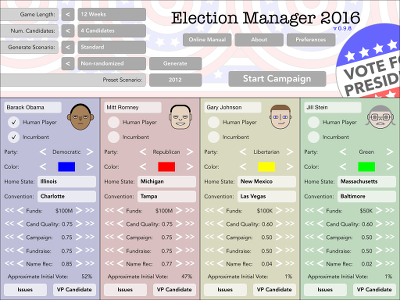
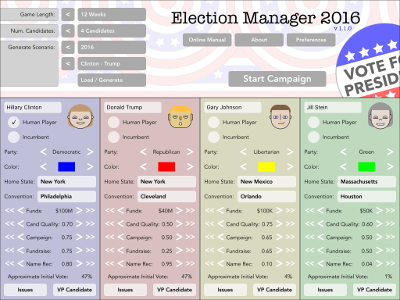
Updated manual, FAQ, etc. for v1.1.0 of EM16

diff --git a/html/em16/manual.html b/html/em16/manual.html
@@ -26,7 +26,7 @@
 <div class="section manual">
   <h1><span id="1"></span>Election Manager 2016 Online Manual</h1>
 <p>Welcome to the Election Manager 2016 online manual.  This version of the
-  manual is current for version 1.0.3 of Election Manager 2016.</p>
+  manual is current for version 1.1.0 of Election Manager 2016.</p>
 
   <p>In Election Manager 2016, you are the manager of a U.S. presidential
   ticket, and attempt to get your candidate elected to office.  There are a
@@ -467,12 +467,17 @@ function toggleTOC(elem) {
 <p>On the first panel (top on iPad and Mac versions, left-most panel on
       the iPhone version), the game length (12-24 weeks) and number of players
       (2-4) can be set.  A number of pre-set scenarios can also be generated or
-      selected; "2012" will set up an election similar to the actual
-      historical election, and various other scenarios can be generated.  If
-      generated scenarios are randomized, issues and candidate skills and
+      selected; A "2016 Clinton - Trump" scenario will set up an election
+      like the 2016 election, and a "2012" scenario will set up an election
+      like the 2012 election.  Various other scenarios can also be generated
+      (either generic scenarios or one of several hypothetical 2016 scenarios).
+      If generic scenarios are randomized, issues and candidate skills and
       quality and name recognition will be randomized to various extents. Names,
       portraits, home states, and convention markets are always randomly chosen
-      when a scenario (other than 2012) is generated, however.</p>
+      when a scenario (other than 2016 or 2012) is generated, however.</p>
+
+      <p>Note that elections aren't actually set up until the "Load/Generate"
+      button is actually pressed.</p>
 <h3><a href="#toc-anchor"><span id="4.2">4.2</span> Candidates</a></h3>
 <p>The bottom panels (on iPad and Mac) or panels to the right (on the
       iPhone) are for setting up the candidates (to see all of the controls on

diff --git a/html/em16/support.html b/html/em16/support.html
@@ -46,9 +46,25 @@
 
   <h1>Known Issues</h1>
 
-  <p>There are currently no known issues.</p>
+  <ul>
 
-  <p>The following bug fixes and features are available in v1.0.3 (currently available in the App Store):</p>
+    <li>Initial game loads with the historical 2012 scenario instead of 2016
+    Clinton-Trump scenario [<em>workaround</em>: the 2016 scenario can be
+    immediately loaded by using the load/generate button].</li>
+
+  </ul>
+
+  <p>The following is a list of bug fixes/new features from previous versions of
+  Election Manager 2016:</p>
+
+  <h1>v1.1.0 (currently available in the App Store)</h1>
+
+  <ul>
+    <li>Added 2016 scenarios with confirmed candidates.</li>
+    <li>Additional portrait options.</li>
+  </ul>
+
+  <h1>v1.0.3</h1>
 
   <ul>
     <li><em>[iPad and iPhone only]</em> Fixed map market/state color

diff --git a/html/em16/faq.html b/html/em16/faq.html
@@ -86,15 +86,6 @@
 
   <p>Yes, hotseat multiplayer is available.</p>
 
-  <p><em>Why doesn't Election Manager 2016 have a 2016
-  scenario?</em></p>
-
-  <p>Because the parties haven't chosen their candidates yet &mdash;
-  once the 2016 party conventions have taken place and the candidates
-  have been chosen, we'll release an update (along with a few "what
-  if?"  scenarios).  We'll also update the scenario after the election
-  takes place to more closely match the final election results.</p>
-
   <p><em>Are there any plans to add primaries or to expand the
   debates?</em></p>
 
